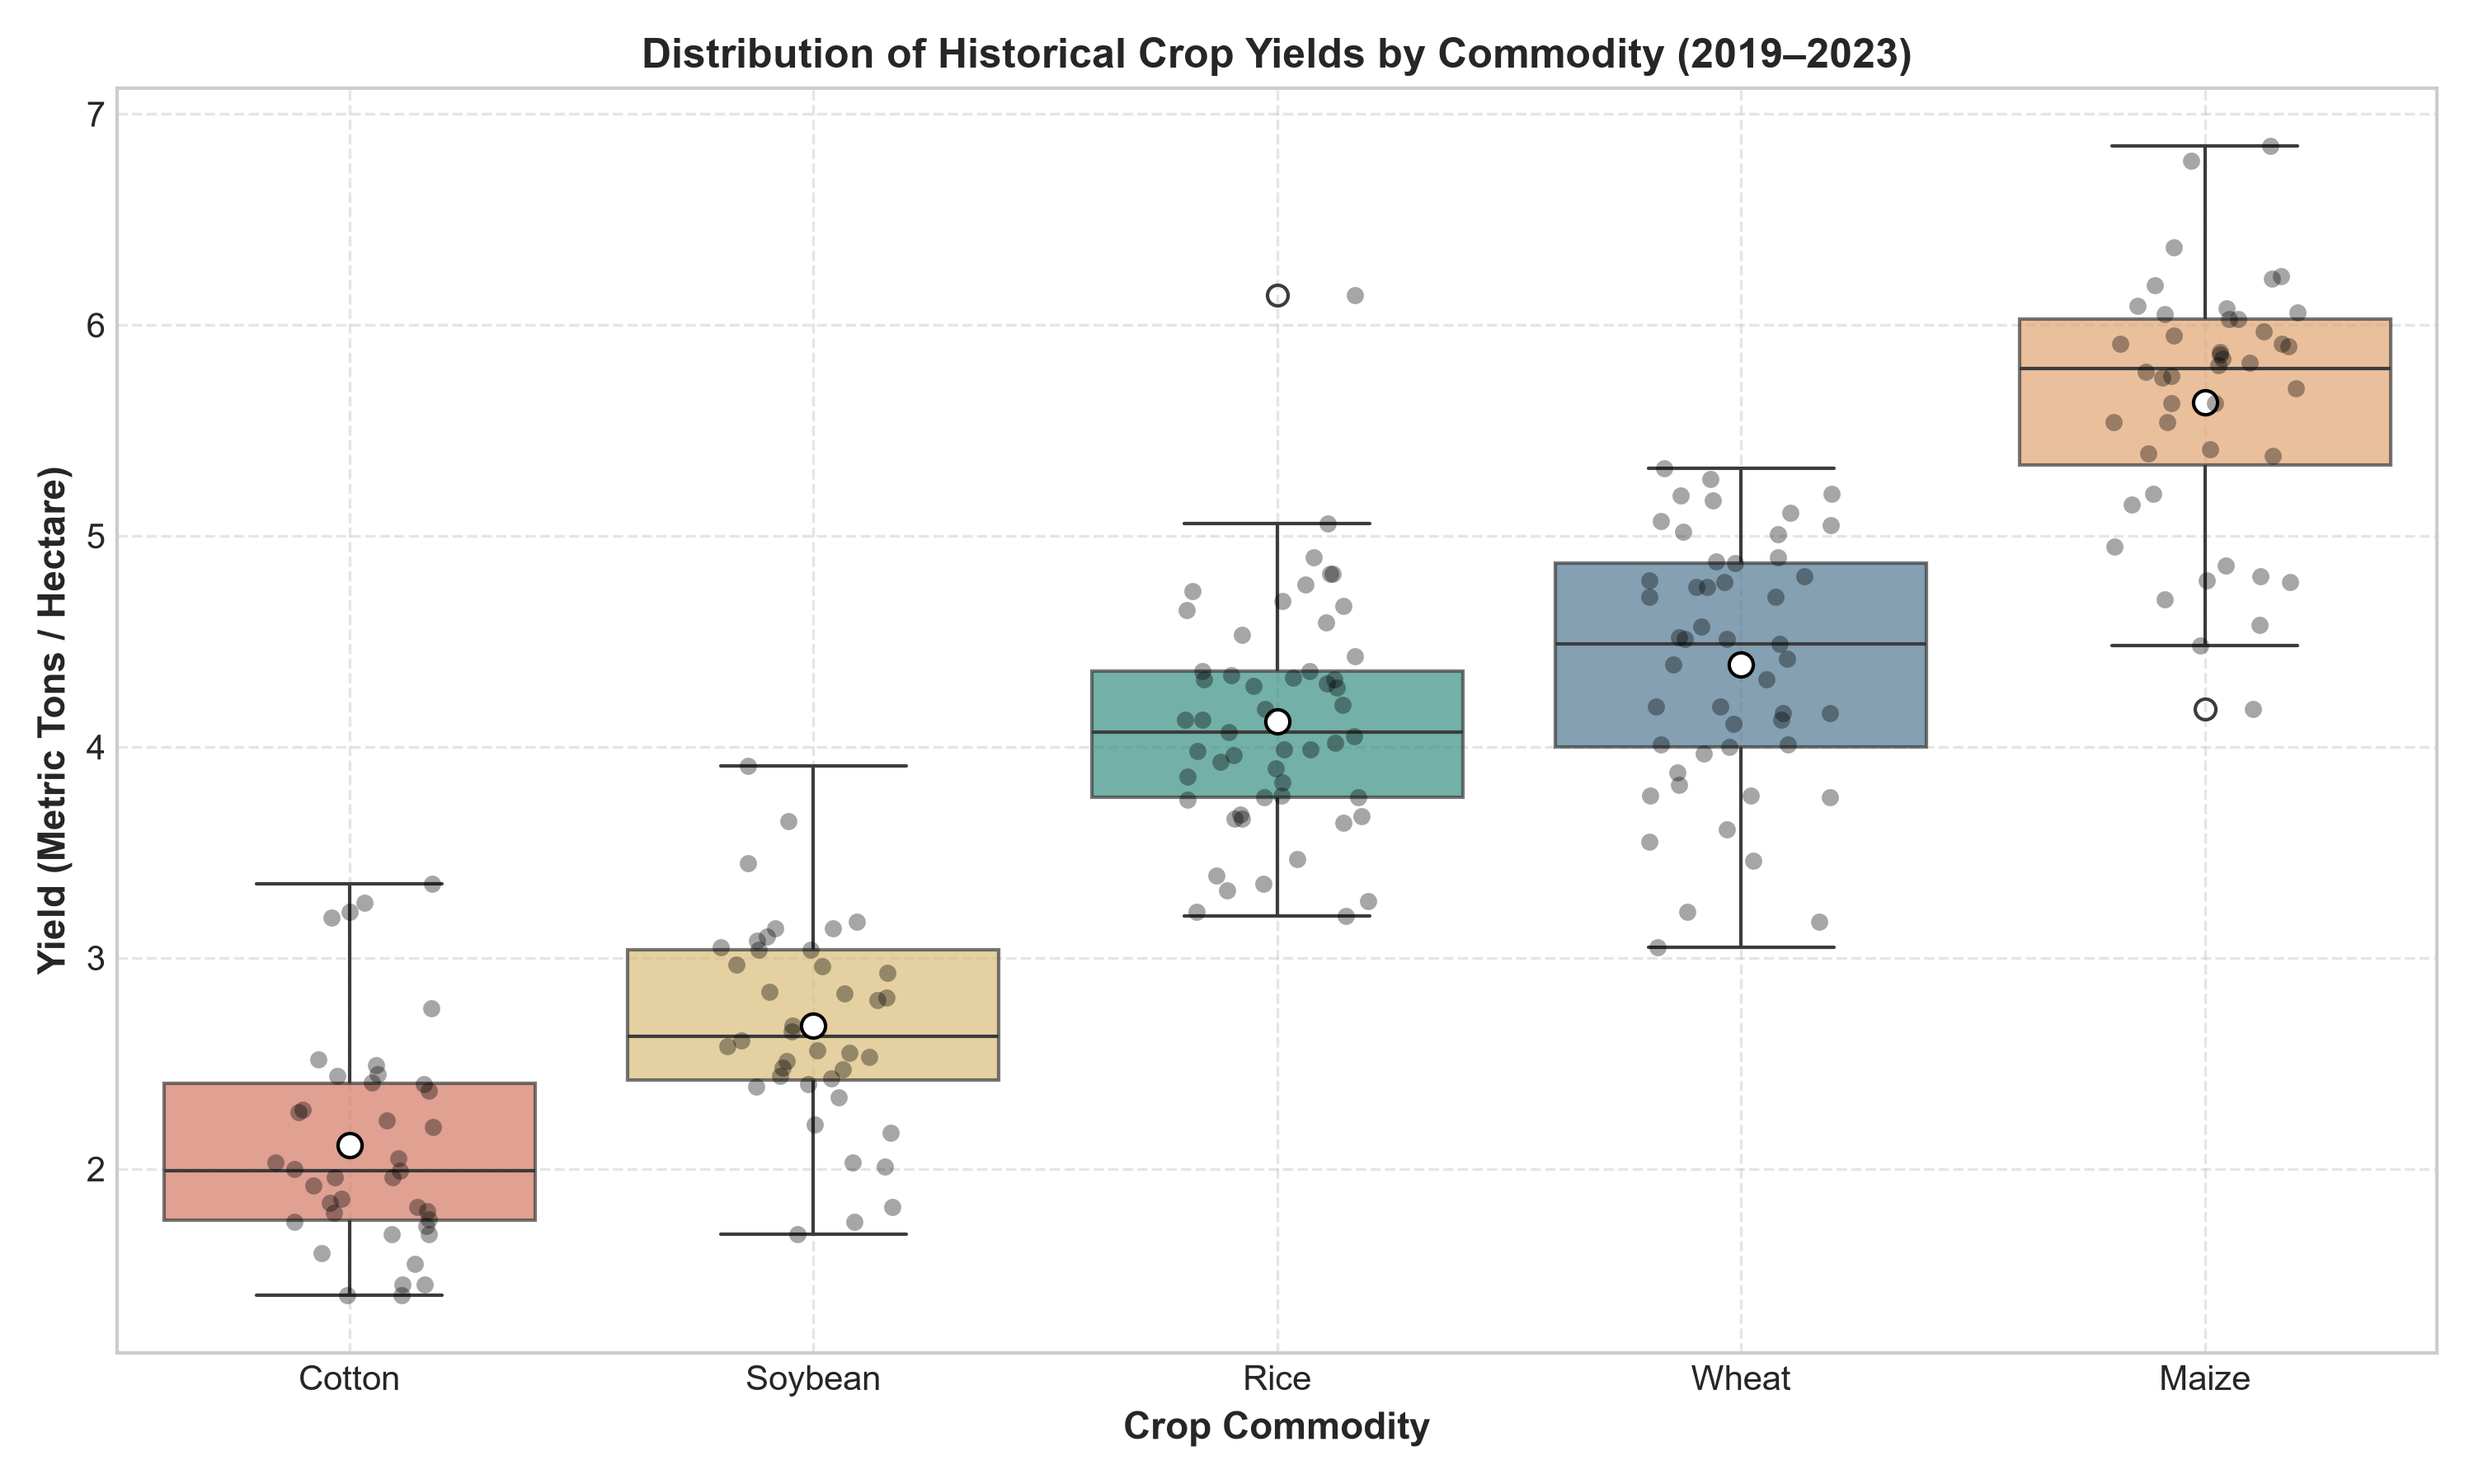
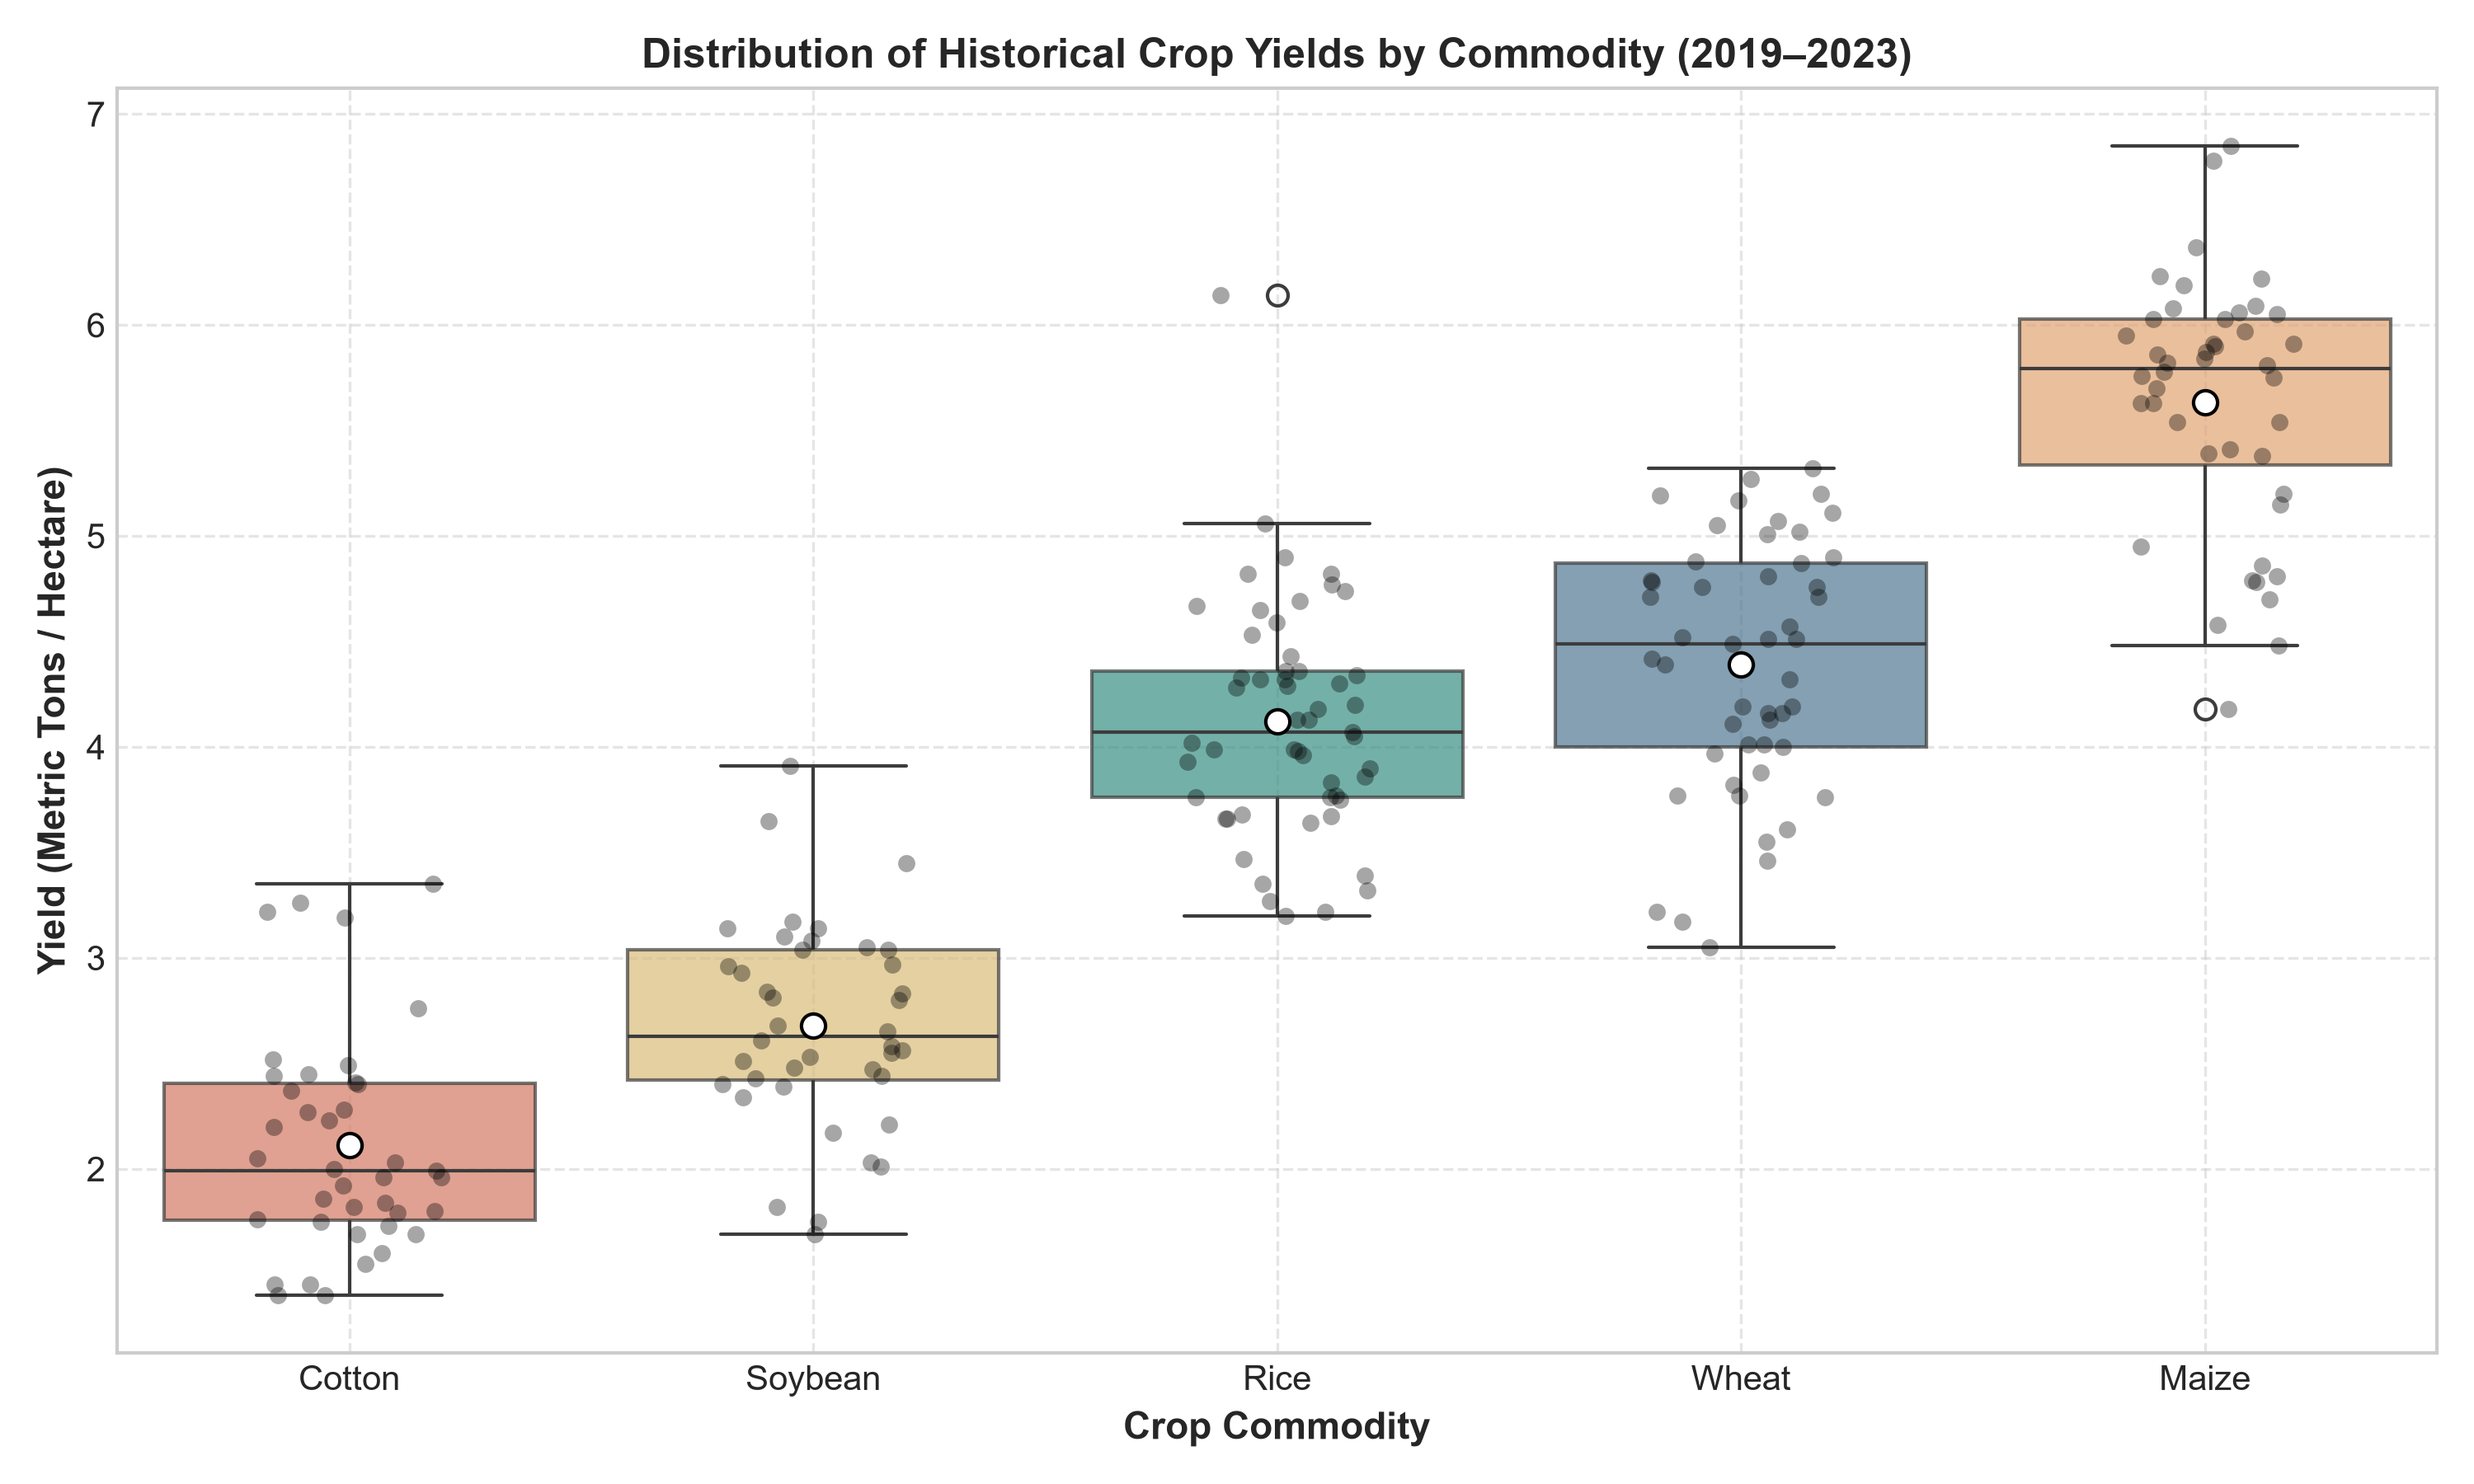
fix(eda): eliminate seaborn palette deprecation warning in boxplot

diff --git a/src/notebook_builder.py b/src/notebook_builder.py
@@ -122,8 +122,8 @@ def create_eda_notebook(output_path: str = "notebooks/01_data_integration_eda.ip
                 "crops_order = ['Cotton', 'Soybean', 'Rice', 'Wheat', 'Maize']\n",
                 "\n",
                 "sns.boxplot(\n",
-                "    data=df, x='crop_type', y='crop_yield_mt_ha', \n",
-                "    order=crops_order, palette=CROP_PALETTE, \n",
+                "    data=df, x='crop_type', y='crop_yield_mt_ha', hue='crop_type',\n",
+                "    order=crops_order, palette=CROP_PALETTE, legend=False,\n",
                 "    boxprops=dict(alpha=0.7), showmeans=True,\n",
                 "    meanprops=dict(marker='o', markeredgecolor='black', markerfacecolor='white', markersize=8),\n",
                 "    ax=ax\n",

diff --git a/src/eda_generator.py b/src/eda_generator.py
@@ -58,8 +58,8 @@ def generate_eda_figures(
     crops_order = ["Cotton", "Soybean", "Rice", "Wheat", "Maize"]
     
     sns.boxplot(
-        data=df, x="crop_type", y="crop_yield_mt_ha",
-        order=crops_order, palette=crop_palette,
+        data=df, x="crop_type", y="crop_yield_mt_ha", hue="crop_type",
+        order=crops_order, palette=crop_palette, legend=False,
         boxprops=dict(alpha=0.7), showmeans=True,
         meanprops=dict(marker="o", markeredgecolor="black", markerfacecolor="white", markersize=7),
         ax=ax
